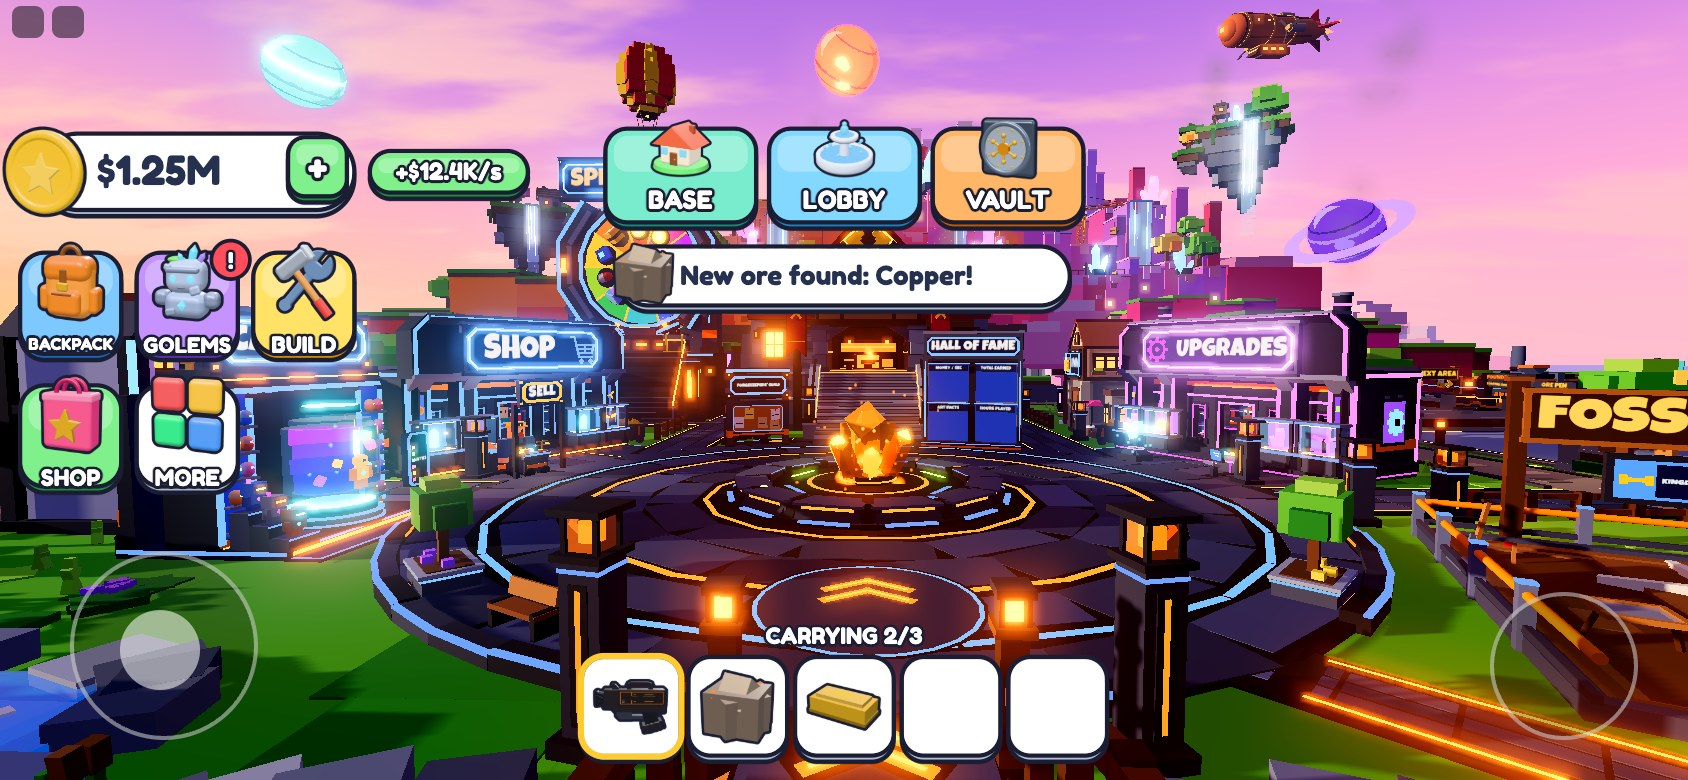
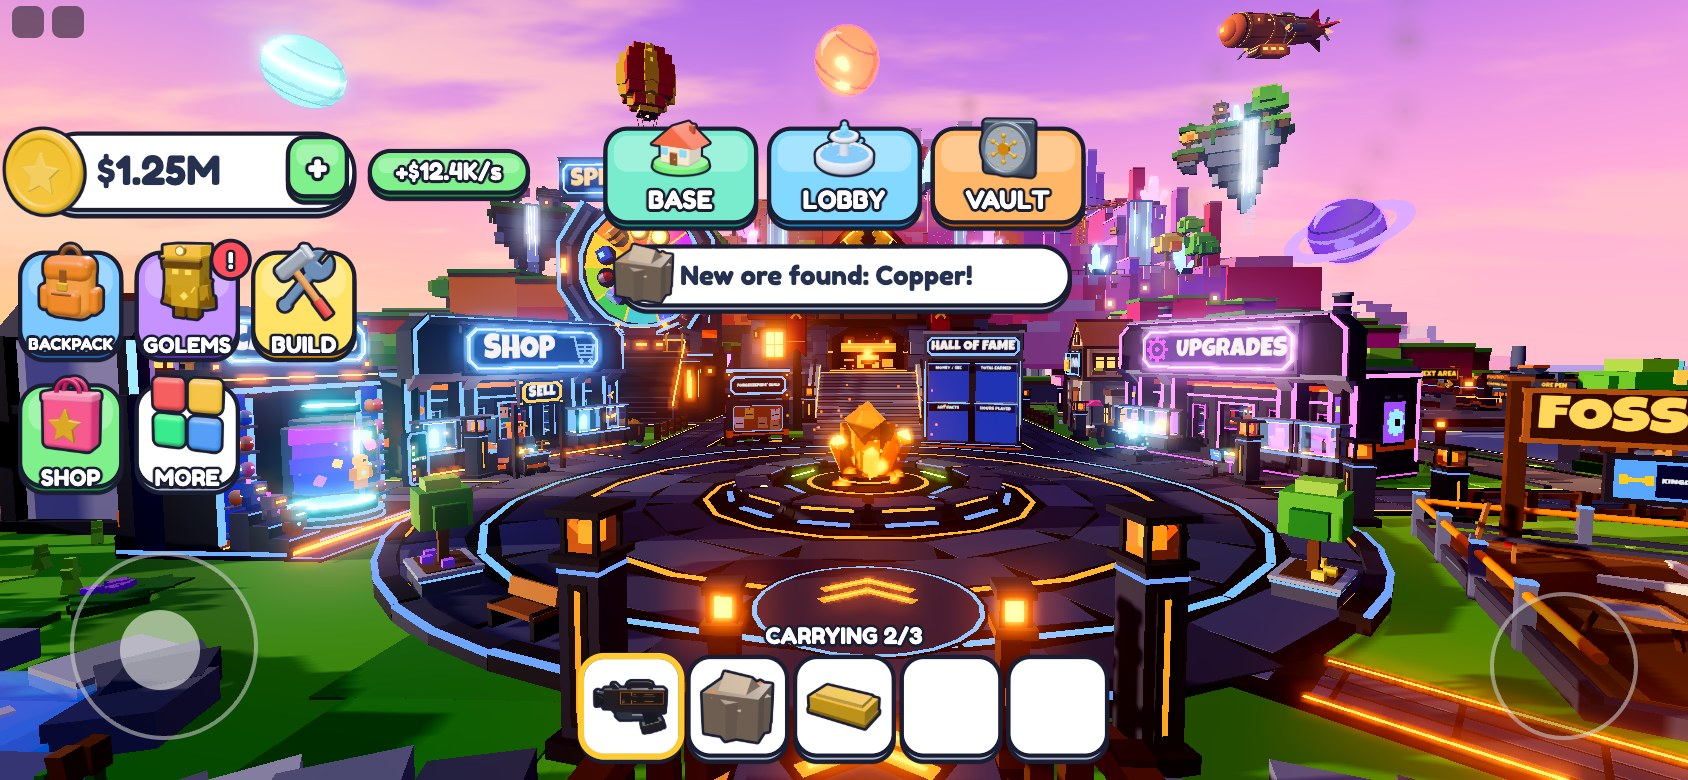
Bubble UI: MORE flyout (wheel, codex, artifacts, boards, gear, settings) + overview sheet
- HudBubble: menuMetrics / tilePosition (pure menu math), moreMenu: a white
  bubble right of the menu with a pointer at MORE, a tile per entry, close X;
  MORE gets the gold outline while open; GOLEMS uses a real golem icon
- Icons: wheel, book, trophy, miner helmet, cog
- docs/screenshots/ui_bubble/prehled_styl_a.jpg: every style A screen on one page
- tests: MORE flyout and menu math

diff --git a/tools/preview/icons/icons.js b/tools/preview/icons/icons.js
@@ -390,6 +390,82 @@ const ICONS = {
     return { model: group([extrude(s, 0.3, 0.1, "#3ddc84", {})]), yaw: -10, pitch: 6 };
   },
 
+  wheel() {
+    const colors = ["#ff5a5a", "#ffc93c", "#3ddc84", "#4da3ff", "#b48cff", "#ff8ad8", "#ffa63c", "#22c7a9"];
+    const parts = [];
+    for (let i = 0; i < 8; i++) {
+      const seg = new THREE.Mesh(new THREE.CylinderGeometry(0.95, 0.95, 0.18, 12, 1, false, (i * Math.PI) / 4, Math.PI / 4), mat(colors[i], {}));
+      seg.rotation.x = Math.PI / 2;
+      parts.push(seg);
+    }
+    parts.push(torus(0.98, 0.1, Math.PI * 2, GOLD, shiny, [0, 0, 0]));
+    for (let i = 0; i < 8; i++) {
+      const a = (i / 8) * Math.PI * 2 + Math.PI / 8;
+      parts.push(ball(0.06, "#fff6c8", glow("#ffd040", 0.6), [Math.cos(a) * 0.98, Math.sin(a) * 0.98, 0.1]));
+    }
+    parts.push(cyl(0.2, 0.2, 0.3, GOLD, shiny, [0, 0, 0.1], [90, 0, 0]));
+    parts.push(place(new THREE.Mesh(new THREE.ConeGeometry(0.2, 0.42, 4), mat("#ff4f6d", {})), [0, 1.12, 0.12], [0, 45, 180]));
+    parts.push(box(0.2, 0.9, 0.2, 0.06, "#7d8a9b", steel, [0, -1.2, -0.1]));
+    parts.push(box(0.9, 0.16, 0.5, 0.06, "#7d8a9b", steel, [0, -1.62, -0.1]));
+    return { model: group(parts), yaw: -16, pitch: 4 };
+  },
+
+  book() {
+    const parts = [
+      box(1.5, 1.9, 0.5, 0.08, "#2f95f5", {}, [0, 0, 0]),
+      box(1.38, 1.8, 0.38, 0.04, "#fff4dc", { coat: 0.2 }, [0.08, 0, 0]),
+      box(1.5, 1.9, 0.08, 0.04, "#2f95f5", {}, [0, 0, 0.26]),
+      box(0.16, 1.9, 0.58, 0.06, "#1c64b8", {}, [-0.72, 0, 0]),
+      box(0.3, 0.3, 0.1, 0.04, GOLD, shiny, [0.62, 0.82, 0.31]),
+      box(0.3, 0.3, 0.1, 0.04, GOLD, shiny, [0.62, -0.82, 0.31]),
+      place(new THREE.Mesh(new THREE.OctahedronGeometry(0.34), mat("#7cf0ff", glow("#25b6e6", 0.5))), [0.05, 0.1, 0.36], [0, 0, 0]),
+      box(0.16, 0.7, 0.04, 0.02, "#ff4f6d", {}, [0.35, -1.1, 0.12]),
+    ];
+    return { model: group(parts), yaw: -26, pitch: 8 };
+  },
+
+  trophy() {
+    const cup = lathe([[0, -0.1], [0.3, -0.1], [0.55, 0.15], [0.72, 0.6], [0.78, 1.0], [0.7, 1.02], [0.64, 0.62], [0.0, 0.5]], GOLD, shiny);
+    const parts = [
+      cup,
+      torus(0.3, 0.07, Math.PI, GOLD, shiny, [0.72, 0.55, 0], [0, 0, -90]),
+      torus(0.3, 0.07, Math.PI, GOLD, shiny, [-0.72, 0.55, 0], [0, 0, 90]),
+      cyl(0.12, 0.16, 0.45, GOLD_DARK, shiny, [0, -0.32, 0]),
+      box(0.95, 0.3, 0.7, 0.08, "#8a5530", {}, [0, -0.7, 0]),
+      box(0.5, 0.12, 0.05, 0.03, GOLD, shiny, [0, -0.7, 0.36]),
+      extrude(starShape(0.24, 0.1), 0.06, 0.02, "#fff1a8", shiny, [0, 0.55, 0.62]),
+    ];
+    return { model: group(parts), yaw: -12, pitch: 10 };
+  },
+
+  helmet() {
+    const dome = new THREE.Mesh(new THREE.SphereGeometry(0.85, 40, 20, 0, Math.PI * 2, 0, Math.PI / 2), mat("#ffc21a", {}));
+    const parts = [
+      dome,
+      cyl(1.08, 1.08, 0.1, "#ffb000", {}, [0, 0.02, 0.1]),
+      box(0.16, 0.5, 1.5, 0.06, "#ffd860", {}, [0, 0.6, 0]),
+      cyl(0.26, 0.3, 0.3, "#5b6677", steel, [0, 0.5, 0.78], [80, 0, 0]),
+      cyl(0.2, 0.2, 0.05, "#fff8c8", glow("#ffe060", 1.4), [0, 0.53, 0.94], [80, 0, 0]),
+    ];
+    return { model: group(parts), yaw: -26, pitch: 18 };
+  },
+
+  cog() {
+    const s = new THREE.Shape();
+    const teeth = 8;
+    for (let i = 0; i < teeth * 4; i++) {
+      const a = (i / (teeth * 4)) * Math.PI * 2;
+      const r = i % 4 === 1 || i % 4 === 2 ? 1.0 : 0.76;
+      if (i === 0) s.moveTo(Math.cos(a) * r, Math.sin(a) * r);
+      else s.lineTo(Math.cos(a) * r, Math.sin(a) * r);
+    }
+    s.closePath();
+    const hole = new THREE.Path();
+    hole.absarc(0, 0, 0.32, 0, Math.PI * 2, true);
+    s.holes.push(hole);
+    return { model: group([extrude(s, 0.32, 0.06, "#aab6c8", steel)]), yaw: -18, pitch: 12 };
+  },
+
   // PREVIEW ONLY: a stand-in for Roblox's built-in Robux icon (never uploaded;
   // the game shows rbxasset://textures/ui/common/robux.png, see IconAssets).
   robux() {
